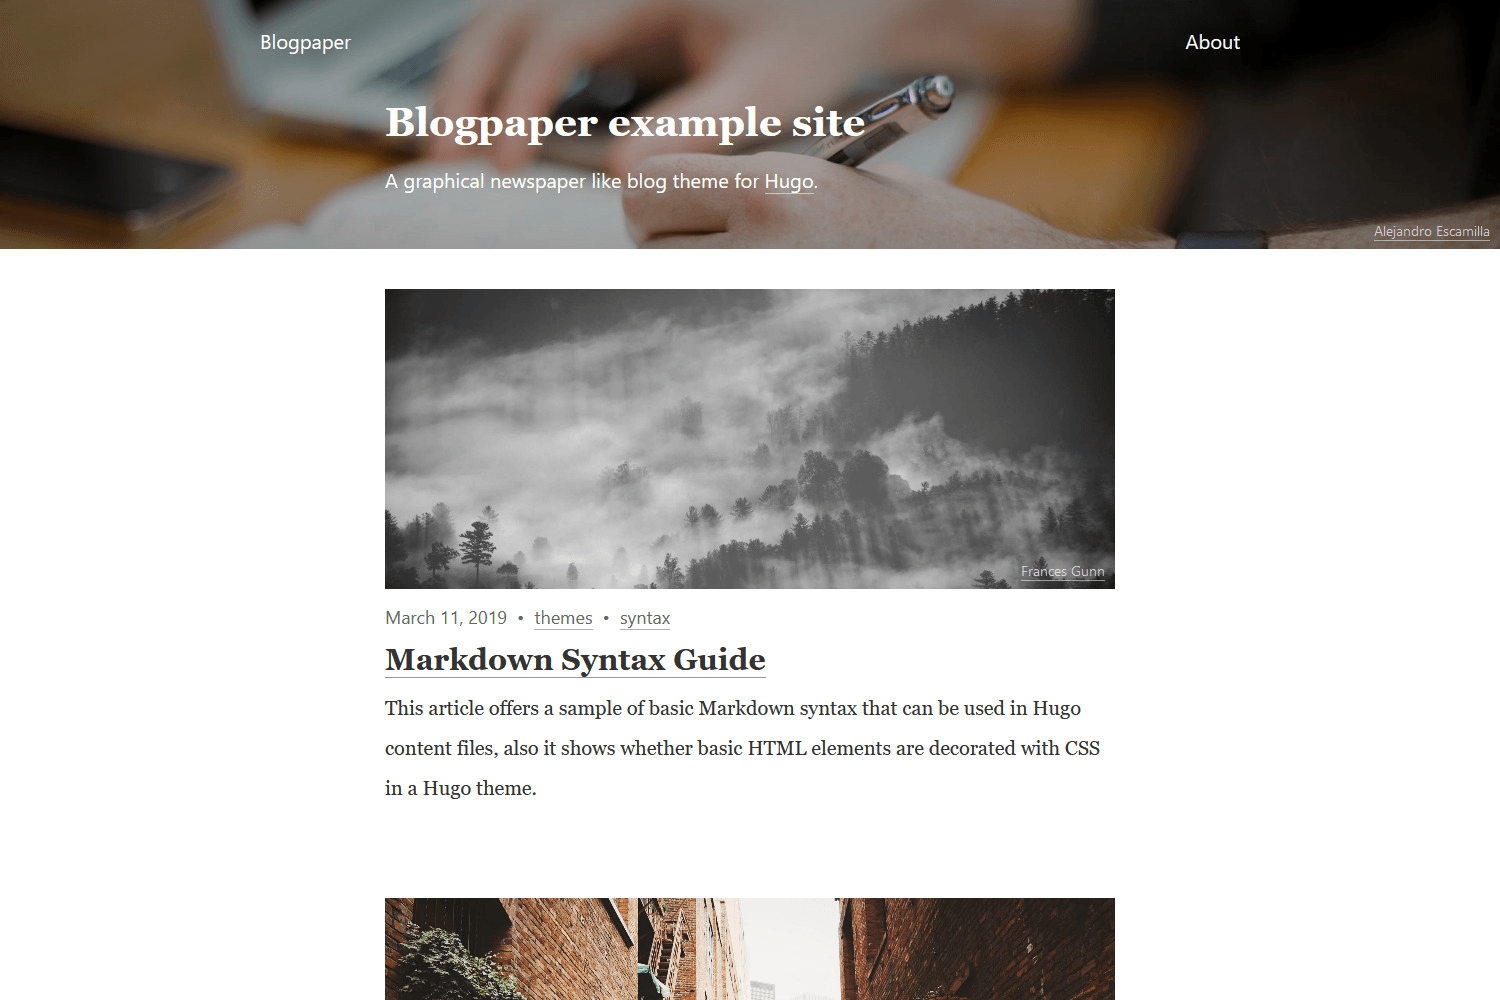
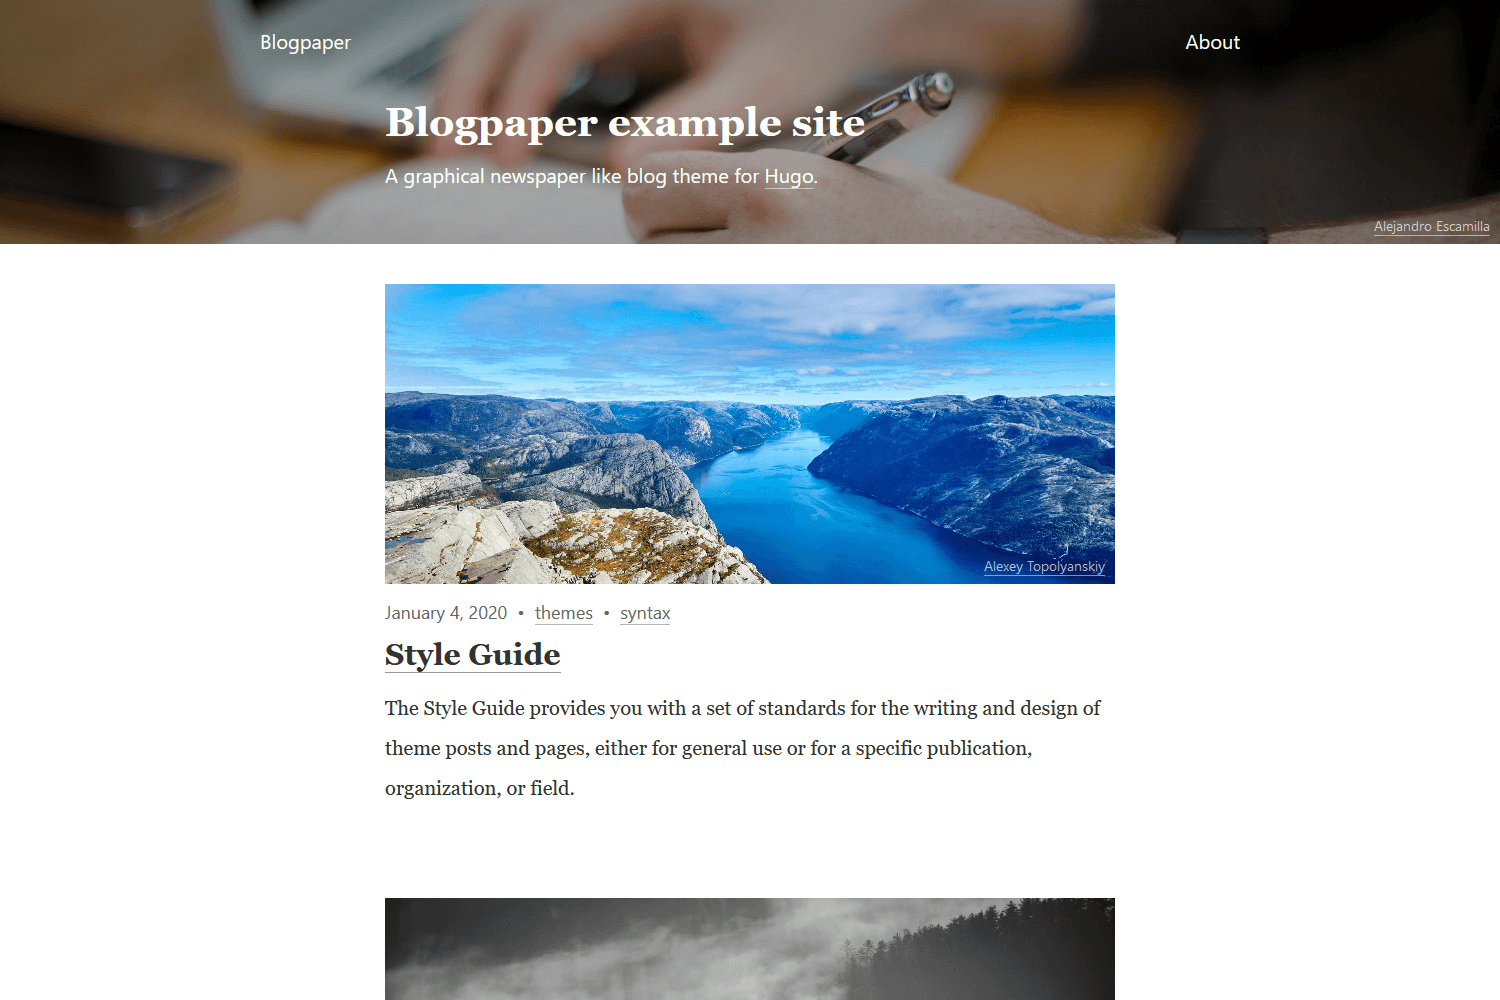
:pencil: Update images/

diff --git a/README.md b/README.md
@@ -7,9 +7,9 @@
 
 [![Example of a homepage](https://raw.githubusercontent.com/NormandErwan/Blogpaper/master/images/screenshot.png)](https://normanderwan.github.io/Blogpaper/)
 
-[![Example of a post page](https://raw.githubusercontent.com/NormandErwan/Blogpaper/master/images/post-page.jpg)](https://normanderwan.github.io/Blogpaper/posts/markdown-syntax/)
+[![Example of a post page](https://raw.githubusercontent.com/NormandErwan/Blogpaper/master/images/post-page.gif)](https://normanderwan.github.io/Blogpaper/posts/style-guide/)
 
-See the live demo: <https://normanderwan.github.io/Blogpaper/>.
+See the [live demo](https://normanderwan.github.io/Blogpaper/) and the [style guide](https://normanderwan.github.io/Blogpaper/posts/style-guide/).
 
 This theme is inspired by [Start Bootstrap - Clean Blog](https://github.com/BlackrockDigital/startbootstrap-clean-blog),
 Jekyll's [Olania](https://olania-jekyll.netlify.com/) and Jekyll's [Curious](https://curious-jekyll.netlify.com/).
